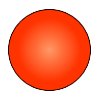
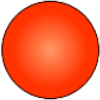
공 이미지 확대 및 Ball 클래스 구현 및 공 출력

Changed region(s): [[0.0, 0.0, 1.0, 1.0]]

diff --git a/Game/ball.py b/Game/ball.py
@@ -1,0 +1,46 @@
+# #####
+# ball.py: 당구공이 구현되어 있는 파일.
+# #####
+from pico2d import load_image
+
+class Ball:
+
+    # 이미지 변수
+    image_white_ball = None
+    image_yellow_ball = None
+    image_red_ball = None
+
+    # 상태 변수
+    # color: 공의 색상 / 0: White, 1: Yellow, 2: Red
+    color = None
+    # pos: "Board 위에서의" x, y 위치
+    pos_x = pos_y = 0
+
+    def __init__(self, _x = 800 // 2, _y = 400 // 2, _color = 0):
+        # 이미지 로드
+        if self.image_white_ball == None:
+            self.image_white_ball = load_image('image_white_ball.png')
+
+        if self.image_yellow_ball == None:
+            self.image_yellow_ball = load_image('image_yellow_ball.png')
+
+        if self.image_red_ball == None:
+            self.image_red_ball = load_image('image_red_ball.png')
+
+        # 상태값 대입
+        self.color = _color
+        self.pos_x = _x
+        self.pos_y = _y
+
+    # draw(): 이미지 그리기
+    def draw(self):
+        if self.color == 0:
+            self.image_white_ball.clip_draw(0, 0, 100, 100, 240 + self.pos_x, 280 + self.pos_y, 17, 17)
+        elif self.color == 1:
+            self.image_yellow_ball.clip_draw(0, 0, 100, 100, 240 + self.pos_x, 280 + self.pos_y, 17, 17)
+        elif self.color == 2:
+            self.image_red_ball.clip_draw(0, 0, 100, 100, 240 + self.pos_x, 280 + self.pos_y, 17, 17)
+
+    # update():
+    def update(self):
+        pass

diff --git a/Game/Main.py b/Game/Main.py
@@ -3,6 +3,7 @@
 # #####
 from pico2d import *
 from background import Background
+from ball import Ball
 import game_world
 
 # ---
@@ -34,6 +35,16 @@ def create_world():
     # Create Object Here.
     background = Background()
     game_world.add_object(background, 0)
+
+    ball = Ball()
+    game_world.add_object(ball, 1)
+
+    ball = Ball(200, 200, 1)
+    game_world.add_object(ball, 1)
+
+    ball = Ball(300, 300, 2)
+    game_world.add_object(ball, 1)
+
 
 # ---
 # update_world(): 게임 월드 내 모든 객체를 업데이트한다.

diff --git a/Game/background.py b/Game/background.py
@@ -16,9 +16,11 @@ class Background:
         if self.image_board == None:
             self.image_board = load_image('image_board.png')
 
+    # draw(): 이미지 그리기
     def draw(self):
         self.image_background.draw(1280 // 2, 960 // 2)
         self.image_board.draw(1280 // 2, 960 // 2)
 
+    # update():
     def update(self):
         pass
